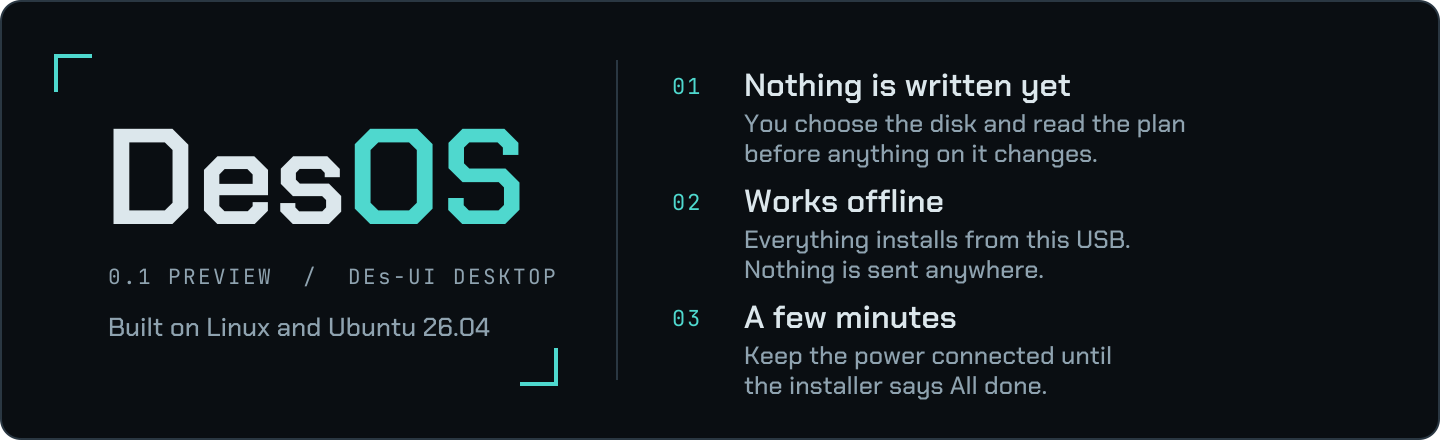
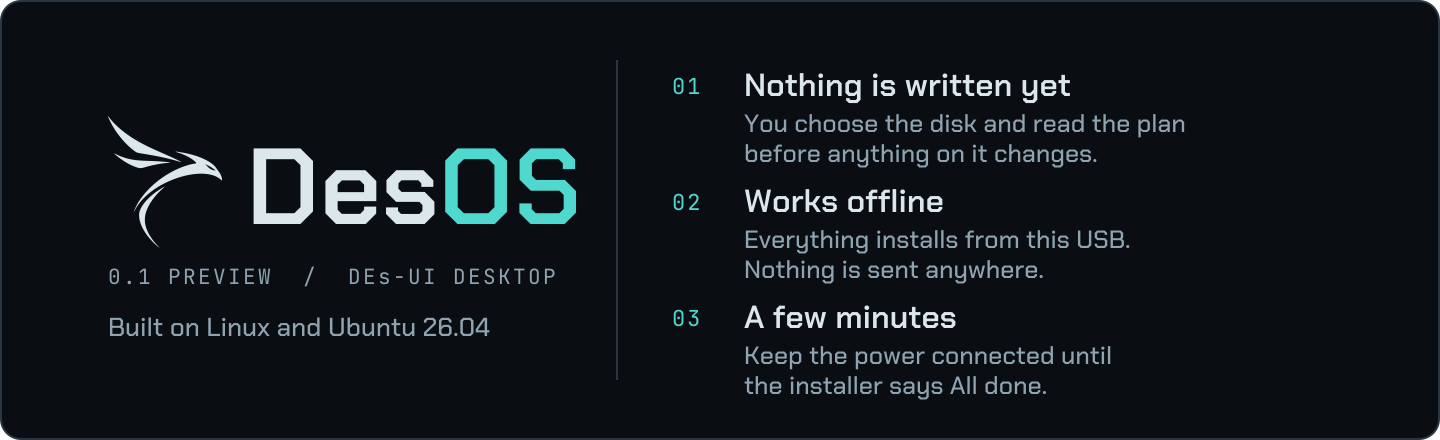
The bird: DesOS's new mark in GRUB and the installer; GRUB fits BIOS
branding/bird.svg is a copy of DEs-UI's master drawing (a test fails when
they differ); branding/bird.py reads it for Pillow and cairo.

- GRUB: the header shows the bird beside DesOS; the DesOS menu icon is the bird.
- Installer: the welcome card shows the bird beside DesOS.
- BIOS: VBE takes 640x480 for gfxmode=auto and the theme overflowed. The live
  menu and the installed fragment now ask for 1024x768 or 800x600 first when
  there is no UEFI; UEFI keeps the native mode.

Changed region(s): [[0.0625, 0.2659, 0.4062, 0.5318], [0.3438, 0.8568, 0.4062, 0.8864], [0.0312, 0.1182, 0.0625, 0.1477]]

diff --git a/installer/branding/build_art.py b/installer/branding/build_art.py
@@ -13,6 +13,7 @@ Needs python3-fonttools and python3-cairo on the build host; not at install
 time. Run:  python3 installer/branding/build_art.py
 """
 import math
+import sys
 from pathlib import Path
 
 import cairo
@@ -23,6 +24,8 @@ from fontTools.ttLib import TTFont
 HERE = Path(__file__).resolve().parent
 OUT = HERE / "desos"
 FONTS = HERE.parent / "fonts"
+sys.path.insert(0, str(HERE.parent.parent / "branding"))
+import bird  # noqa: E402  the DesOS bird, read from branding/bird.svg
 
 GROUND, PANEL, TRACK = "#06080b", "#0a0e12", "#141b22"
 LINE, LINE_STRONG, EDGE = "#1a232b", "#2a3742", "#5b7385"
@@ -107,6 +110,10 @@ class Drawing:
     def fill(self, segments, colour):
         self.ops.append(("fill", segments, colour, 0))
 
+    def fill_evenodd(self, segments, colour):
+        """A fill where overlapping contours cut each other out (the bird's eye)."""
+        self.ops.append(("fill-evenodd", segments, colour, 0))
+
     def stroke(self, segments, colour, width):
         self.ops.append(("stroke", segments, colour, width))
 
@@ -125,6 +132,8 @@ class Drawing:
         for kind, segments, colour, width in self.ops:
             if kind == "fill":
                 body.append(f'  <path fill="{colour}" d="{data(segments)}"/>')
+            elif kind == "fill-evenodd":
+                body.append(f'  <path fill="{colour}" fill-rule="evenodd" d="{data(segments)}"/>')
             else:
                 body.append(f'  <path fill="none" stroke="{colour}" stroke-width="{width:g}" d="{data(segments)}"/>')
         return (
@@ -148,7 +157,8 @@ class Drawing:
                 else:
                     ctx.close_path()
             ctx.set_source_rgb(*[int(colour[i:i + 2], 16) / 255 for i in (1, 3, 5)])
-            if kind == "fill":
+            if kind in ("fill", "fill-evenodd"):
+                ctx.set_fill_rule(cairo.FILL_RULE_EVEN_ODD if kind == "fill-evenodd" else cairo.FILL_RULE_WINDING)
                 ctx.fill()
             else:
                 ctx.set_line_width(width)
@@ -156,19 +166,25 @@ class Drawing:
         surface.write_to_png(str(path))
 
 
-def brackets(d, x, y, w, h, arm, colour, width=2):
-    d.stroke(polyline((x, y + arm), (x, y), (x + arm, y)), colour, width)
-    d.stroke(polyline((x + w - arm, y + h), (x + w, y + h), (x + w, y + h - arm)), colour, width)
+def bird_outline(x, y, height):
+    """The bird as drawing segments, its ink `height` tall, top-left at x, y."""
+    k = height / (bird.INK[3] - bird.INK[1])
+    segments = []
+    for op, v in bird.commands():
+        points = [(x + (v[i] - bird.INK[0]) * k, y + (v[i + 1] - bird.INK[1]) * k) for i in range(0, len(v), 2)]
+        segments.append((op, *[c for p in points for c in p]))
+    return segments
 
 
 def welcome(strings, display, body, mono):
     d = Drawing(720, 220, f"{strings['versionedName']}: nothing is written until you confirm")
     d.fill(rounded(0.5, 0.5, 719, 219, 10), PANEL)
     d.stroke(rounded(0.5, 0.5, 719, 219, 10), LINE_STRONG, 1)
-    brackets(d, 28, 28, 250, 164, 18, ACCENT)
-    start = 52
-    start += d.text(display, "Des", start, 112, 68, TEXT)
-    d.text(display, "OS", start, 112, 68, ACCENT)
+    # The bird beside the name, as in the DEs-UI lockup.
+    d.fill_evenodd(bird_outline(54, 58, 66), TEXT)
+    start = 54 + 66 * bird.aspect() + 12
+    start += d.text(display, "Des", start, 112, 54, TEXT)
+    d.text(display, "OS", start, 112, 54, ACCENT)
     d.text(mono, f"{strings['shortVersion']} PREVIEW  /  DEs-UI DESKTOP", 54, 142, 10.5, SECONDARY, tracking=1.2)
     d.text(body, "Built on Linux and Ubuntu 26.04", 54, 168, 13, SECONDARY)
     d.stroke(polyline((308.5, 30), (308.5, 190)), LINE_STRONG, 1)

diff --git a/branding/bird.py b/branding/bird.py
@@ -1,0 +1,85 @@
+"""The DesOS bird, for the artwork generators (GRUB theme, installer).
+
+`bird.svg` here is a copy of DEs-UI's master drawing (des-ui/branding/bird.svg);
+tests/test_branding.py fails when the two differ. Its single path (moves, lines,
+cubic curves, closes; filled even-odd) is read here, so no SVG renderer is needed.
+"""
+import pathlib
+import re
+
+HERE = pathlib.Path(__file__).resolve().parent
+SVG = HERE / 'bird.svg'
+VIEW = 1000.0
+# The part of the 1000 x 1000 box the bird takes, so it can be placed by its ink.
+INK = (68.0, 0.0, 932.0, 1000.0)
+STEPS = 8
+
+
+def aspect():
+    """Width over height of the bird's ink."""
+    return (INK[2] - INK[0]) / (INK[3] - INK[1])
+
+
+def commands():
+    d = re.search(r'\sd="([^"]+)"', SVG.read_text()).group(1)
+    for op, args in re.findall(r'([MLCZ])([^MLCZ]*)', d):
+        yield op, [float(v) for v in args.replace(',', ' ').split()]
+
+
+def polygons():
+    """The bird as closed polygons in box units, curves flattened."""
+    out, current = [], []
+    for op, v in commands():
+        points = [(v[i], v[i + 1]) for i in range(0, len(v), 2)]
+        if op == 'M':
+            if len(current) > 2:
+                out.append(current)
+            current = list(points)
+        elif op == 'L':
+            current.extend(points)
+        elif op == 'C':
+            a = current[-1]
+            for c1, c2, b in zip(points[0::3], points[1::3], points[2::3]):
+                for step in range(1, STEPS + 1):
+                    t = step / STEPS
+                    u = 1 - t
+                    w = (u * u * u, 3 * u * u * t, 3 * u * t * t, t * t * t)
+                    current.append(tuple(w[0] * a[k] + w[1] * c1[k] + w[2] * c2[k] + w[3] * b[k] for k in (0, 1)))
+                a = b
+        elif op == 'Z' and len(current) > 2:
+            out.append(current)
+            current = []
+    if len(current) > 2:
+        out.append(current)
+    return out
+
+
+def mask(height, supersample=4):
+    """The bird's ink as an 8-bit Pillow mask, `height` pixels tall, antialiased."""
+    from PIL import Image, ImageChops, ImageDraw
+    width = max(1, round(height * aspect()))
+    big = (width * supersample, height * supersample)
+    k = big[1] / (INK[3] - INK[1])
+    result = Image.new('1', big, 0)
+    for polygon in polygons():
+        piece = Image.new('1', big, 0)
+        ImageDraw.Draw(piece).polygon([((x - INK[0]) * k, (y - INK[1]) * k) for x, y in polygon], fill=1)
+        # Even-odd: the eye, inside the head, cuts back out.
+        result = ImageChops.logical_xor(result, piece)
+    return result.convert('L').resize((width, height), Image.LANCZOS)
+
+
+def trace(ctx, x, y, height):
+    """Adds the bird to a cairo context's path, its ink `height` tall with its
+    top-left corner at x, y. Fill with FILL_RULE_EVEN_ODD."""
+    k = height / (INK[3] - INK[1])
+    for op, v in commands():
+        p = [(x + (v[i] - INK[0]) * k, y + (v[i + 1] - INK[1]) * k) for i in range(0, len(v), 2)]
+        if op == 'M':
+            ctx.move_to(*p[0])
+        elif op == 'L':
+            ctx.line_to(*p[0])
+        elif op == 'C':
+            ctx.curve_to(*p[0], *p[1], *p[2])
+        else:
+            ctx.close_path()

diff --git a/boot-theme/generate.py b/boot-theme/generate.py
@@ -24,6 +24,8 @@ import tempfile
 HERE = pathlib.Path(__file__).resolve().parent
 FONTS = HERE.parent / 'installer/fonts'
 THEME = HERE / 'rootfs/boot/grub/themes/desos'
+sys.path.insert(0, str(HERE.parent / 'branding'))
+import bird  # noqa: E402  the DesOS bird, read from branding/bird.svg
 
 # The DEs-UI matte instrument palette (des-ui/DESIGN.md, installer/DESIGN.md).
 GROUND = (0x06, 0x08, 0x0b)
@@ -308,18 +310,17 @@ def build_wordmark(out):
     face = ImageFont.truetype(str(FONTS / 'ChakraPetch-SemiBold.ttf'), 38)
     small = ImageFont.truetype(str(FONTS / 'JetBrainsMono.ttf'), 11)
     des, os_ = face.getlength('Des'), face.getlength('OS')
-    pad_x, height = 20, 60
-    width = round(pad_x * 2 + des + os_)
+    height, bird_height = 60, 50
+    mark = bird.mask(bird_height)
+    name_x = mark.width + 14
+    width = round(name_x + des + os_)
     image = Image.new('RGBA', (width + 190, height), (0, 0, 0, 0))
+    # The bird, then the name beside it, as in the DEs-UI lockup.
+    image.paste(Image.new('RGBA', mark.size, TEXT + (255,)), (0, (height - bird_height) // 2), mark)
     draw = ImageDraw.Draw(image)
     baseline = 43
-    draw.text((pad_x, baseline), 'Des', font=face, fill=TEXT + (255,), anchor='ls')
-    draw.text((pad_x + des, baseline), 'OS', font=face, fill=ACCENT + (255,), anchor='ls')
-    # The bracket: top-left and bottom-right corners, as on the installer's welcome card.
-    arm = 14
-    for box in ((0, 0, arm, 1), (0, 0, 1, arm), (width - arm - 1, height - 2, width - 1, height - 1),
-                (width - 2, height - arm - 1, width - 1, height - 1)):
-        draw.rectangle(box, fill=ACCENT + (255,))
+    draw.text((name_x, baseline), 'Des', font=face, fill=TEXT + (255,), anchor='ls')
+    draw.text((name_x + des, baseline), 'OS', font=face, fill=ACCENT + (255,), anchor='ls')
     x = width + 18
     draw.rectangle((x, 12, x, height - 13), fill=LINE + (255,))
     draw.text((x + 16, 27), 'DEs-UI DESKTOP', font=small, fill=SECONDARY + (255,), anchor='ls')
@@ -358,14 +359,17 @@ def build_icons(out):
 
         painter(line, rect, block, ring)
         image = image.resize((ICON, ICON), Image.LANCZOS)
+        if name == 'desos':
+            # DesOS itself: the bird, drawn from the master rather than in strokes.
+            mark = bird.mask(ICON - 2)
+            image = Image.new('RGBA', (ICON, ICON), (0, 0, 0, 0))
+            image.paste(Image.new('RGBA', mark.size, ink), ((ICON - mark.width) // 2, 1), mark)
         save(image, icons / f'{name}.png')
         for alias in ICON_ALIASES.get(name, []):
             shutil.copyfile(icons / f'{name}.png', icons / f'{alias}.png')
 
-    def desos(line, rect, block, ring):          # the bracket and a filled core
-        line([(3, 10), (3, 3), (10, 3)], accent)
-        line([(21, 14), (21, 21), (14, 21)], accent)
-        block(8, 8, 16, 16)
+    def desos(line, rect, block, ring):          # the bird, pasted in draw_icon
+        pass
 
     def install(line, rect, block, ring):        # arrow into a tray
         line([(4, 15), (4, 20), (20, 20), (20, 15)])

diff --git a/tests/test_branding.py b/tests/test_branding.py
@@ -1,0 +1,31 @@
+"""The DesOS bird: one drawing, shared with DEs-UI, read without an SVG renderer."""
+import pathlib
+import sys
+import unittest
+
+ROOT = pathlib.Path(__file__).resolve().parent.parent
+sys.path.insert(0, str(ROOT / 'branding'))
+import bird  # noqa: E402
+
+DES_UI = ROOT.parent / 'des-ui' / 'branding' / 'bird.svg'
+
+
+class BirdTests(unittest.TestCase):
+    def test_the_drawing_is_five_pieces(self):
+        # The upper wing, the body and head, the lower wing, the eye and the tail.
+        self.assertEqual(len(bird.polygons()), 5)
+
+    def test_the_mask_is_drawn_by_its_ink_with_the_eye_open(self):
+        mask = bird.mask(100)
+        self.assertEqual(mask.size, (86, 100))
+        self.assertEqual(mask.getpixel((65, 80)), 0, 'empty where the tail curves round')
+        self.assertGreater(mask.histogram()[255], 400)
+
+    @unittest.skipUnless(DES_UI.is_file(), 'DEs-UI checkout not beside this one')
+    def test_the_copy_matches_des_ui_master(self):
+        self.assertEqual(bird.SVG.read_bytes(), DES_UI.read_bytes(),
+                         'copy des-ui/branding/bird.svg to branding/bird.svg and regenerate the artwork')
+
+
+if __name__ == '__main__':
+    unittest.main()

diff --git a/image/iso_recipe.py b/image/iso_recipe.py
@@ -148,7 +148,13 @@ def grub_menu(source=None):
         '    insmod gfxterm_background',
         '    insmod png',
         '    insmod gfxmenu',
-        '    set gfxmode=auto',
+        '    # BIOS (VBE) takes 640x480 for "auto", narrower than the theme lays',
+        '    # out for; ask for a mode it fits first. UEFI keeps the native mode.',
+        '    if [ "${grub_platform}" = pc ]; then',
+        '        set gfxmode=1024x768,800x600,auto',
+        '    else',
+        '        set gfxmode=auto',
+        '    fi',
         '    set gfxpayload=keep',
         '    if loadfont ' + ' '.join(fonts) + '; then',
         f'        set gfxterm_font="{terminal_font}"',

diff --git a/tests/test_boot_theme.py b/tests/test_boot_theme.py
@@ -128,6 +128,8 @@ class BootThemeTests(unittest.TestCase):
         self.assertEqual(sorted(settings), ['GRUB_FONT', 'GRUB_GFXMODE', 'GRUB_THEME'])
         self.assertEqual(settings['GRUB_THEME'], '/boot/grub/themes/desos/theme.txt')
         self.assertEqual(settings['GRUB_GFXMODE'], 'auto')
+        # Without UEFI, a mode the theme fits comes before auto's 640x480.
+        self.assertIn('[ -d /sys/firmware/efi ] || GRUB_GFXMODE=1024x768,800x600,auto\n', text)
         for key in ('GRUB_THEME', 'GRUB_FONT'):
             # Beside grub.cfg, so GRUB can read it before any root filesystem is mounted.
             self.assertTrue(settings[key].startswith('/boot/grub/'))

diff --git a/tests/test_iso_recipe.py b/tests/test_iso_recipe.py
@@ -119,6 +119,9 @@ class IsoRecipeTests(unittest.TestCase):
         for name in sorted(path.name for path in self.recipe.THEME_SOURCE.glob('*.pf2')):
             self.assertIn(f'/boot/grub/themes/desos/{name}', lines[fonts])
         self.assertIn('set gfxmode=auto', lines)
+        # BIOS asks for a mode the theme fits before falling back to auto (640x480).
+        self.assertIn('if [ "${grub_platform}" = pc ]; then', lines)
+        self.assertIn('set gfxmode=1024x768,800x600,auto', lines)
         self.assertIn('set gfxpayload=keep', lines)
         self.assertIn('background_color 6,8,11', lines)
         self.assertIn('set menu_color_highlight=black/cyan', lines)

diff --git a/boot-theme/README.md b/boot-theme/README.md
@@ -2,7 +2,7 @@
 
 The GRUB menu of the live medium and of the installed system, in the DEs-UI
 instrument language: the splash ground `#06080b`, the cyan accent `#4fd8ce`,
-the bracketed DesOS wordmark, Chakra Petch for interface text and JetBrains
+the DesOS bird and wordmark (branding/bird.svg), Chakra Petch for interface text and JetBrains
 Mono for readouts. It is a keyboard-only menu with a clear selected row, a
 countdown readout and meter, key hints, and a plain text menu behind every
 step that can fail.
@@ -82,7 +82,7 @@ To opt out on one machine: a later fragment such as
 
 ## Layout
 
-- Header: wordmark (image, antialiased), a status readout, a hairline.
+- Header: the bird and the wordmark (image, antialiased), a status readout, a hairline.
 - Section row: `SYSTEMS`, the countdown readout on the right, and a rule that
   is also the countdown meter. Pressing any key removes the readout and the
   meter; the hairline stays.
@@ -123,7 +123,7 @@ first.
 
 | Entry | `--class` | Icon |
 |-------|-----------|------|
-| The system (grub-mkconfig does this already) | `desos` (also `gnu-linux`, `gnu`, `os`, `linux`) | bracket mark |
+| The system (grub-mkconfig does this already) | `desos` (also `gnu-linux`, `gnu`, `os`, `linux`) | the bird |
 | Recovery mode | `recovery`, `desos-recovery` | cross |
 | One snapshot | `desos-snapshot`, `snapshot` | clock |
 | The snapshots submenu | `desos-snapshots`, `snapshots` | stacked states |
